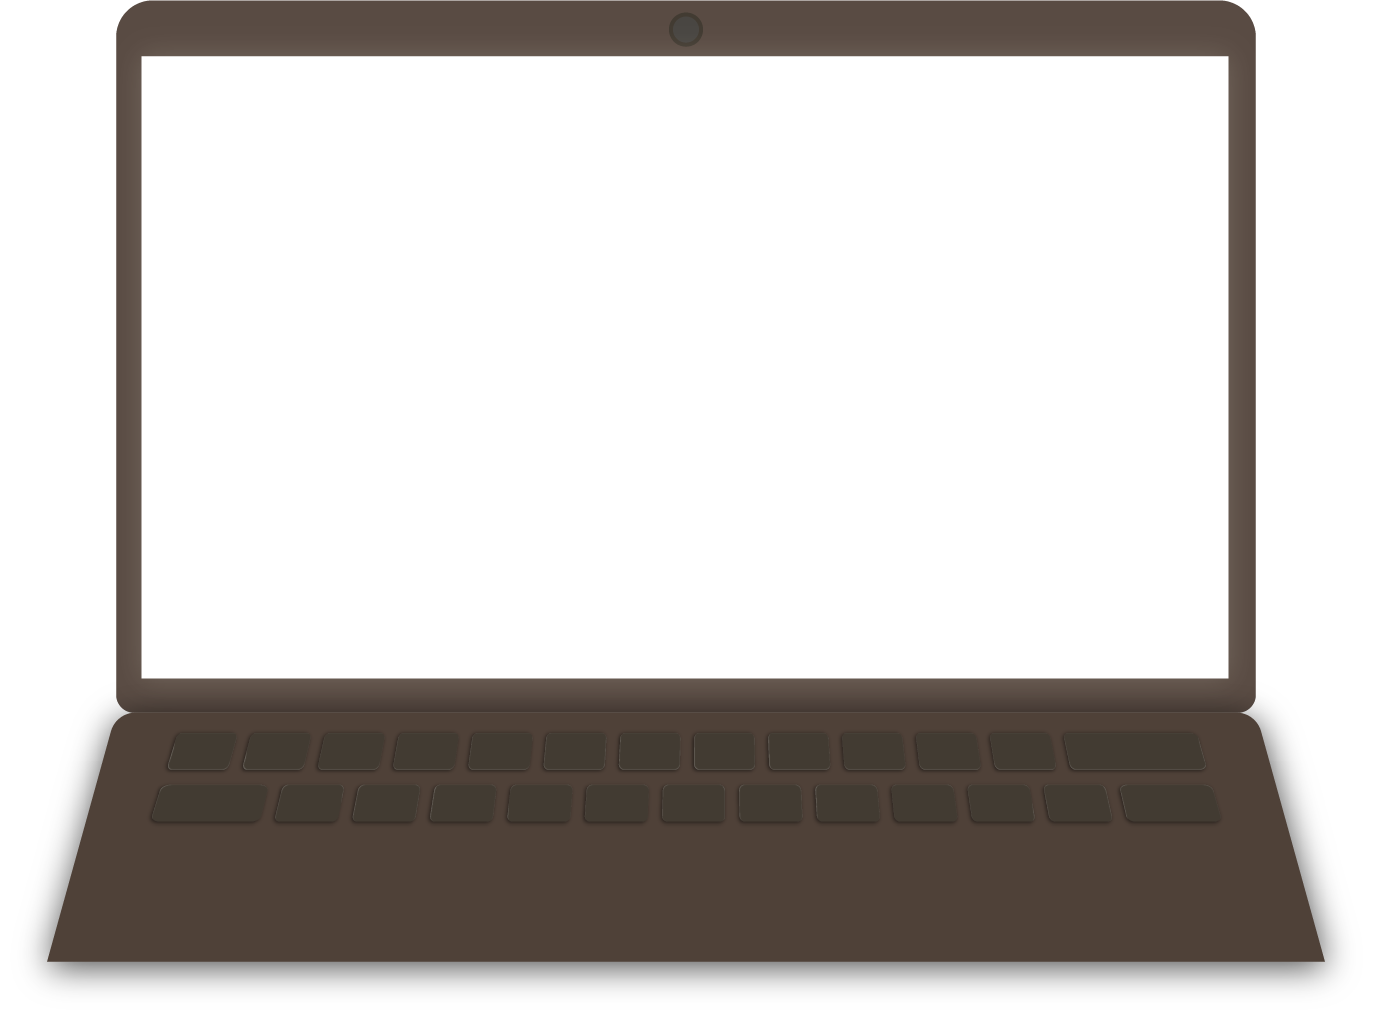
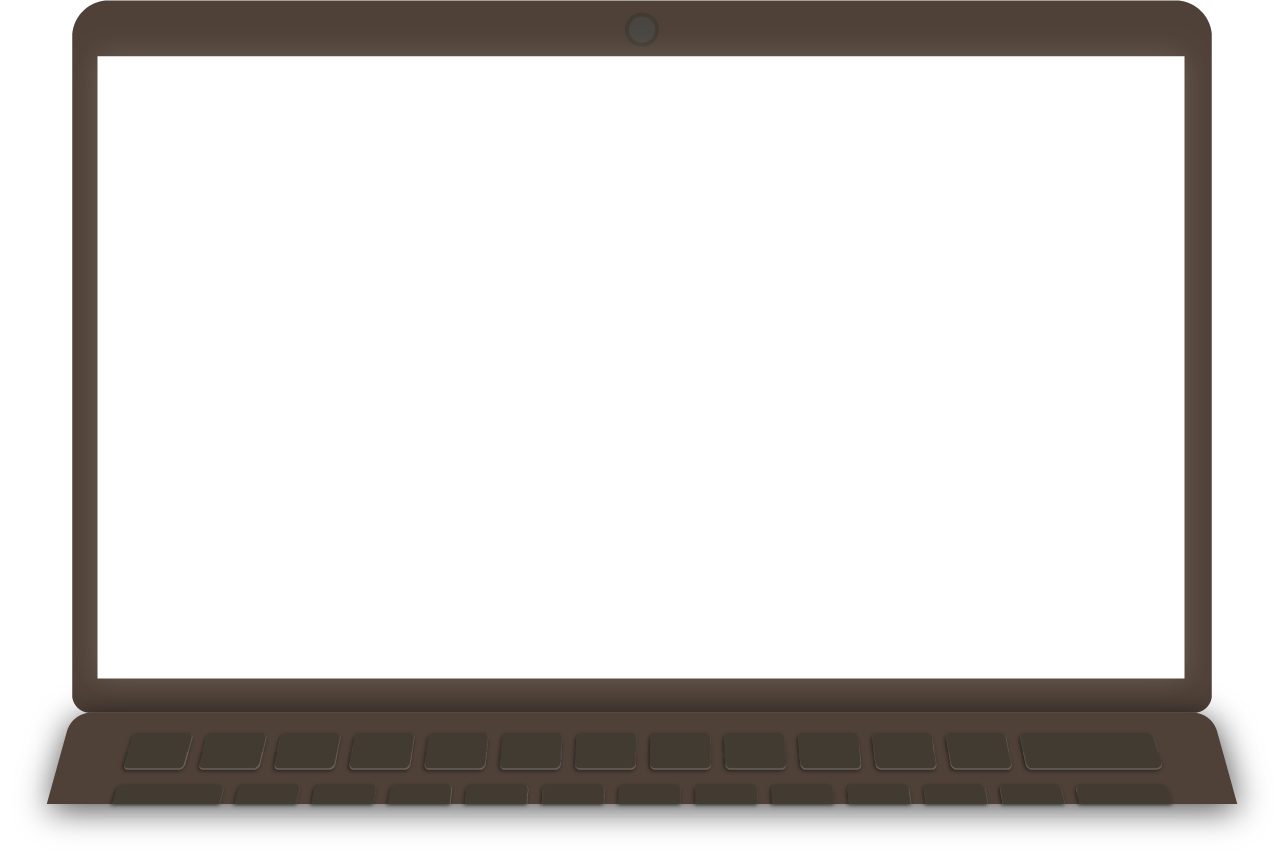
styling af elementer

Changed region(s): [[0.0311, 0.0, 0.9627, 0.8475], [0.0311, 0.9383, 0.9627, 0.9686]]

diff --git a/index.html b/index.html
@@ -27,11 +27,11 @@
                     <!--<img src="img/background2.png" alt="desk in front of a window" id="desk-bg" aria-hidden="true">-->
                     <div class="objects">
                         <div class="lamp">
-                            <img src="img/lamp-switch.png" alt="" id="lamp-switch">
-                            <img src="img/lamp.png" alt="" id="lamp">
+                            <img src="img/lamp-switch.png" alt="lampekontakt" id="lamp-switch">
+                            <img src="img/lamp.png" alt="skrivebordslampe" id="lamp">
                         </div>
                         <div class="pc">
-
+                            <img src="img/pc.png" alt="laptop computer" id="pc">
                         </div>
                     </div>
 

diff --git a/css/style.scss b/css/style.scss
@@ -49,7 +49,7 @@ img{
 
 .content{
     max-width: 100%;
-    background-color: skyblue;
+    background-color: rgb(165, 224, 247);
 }
 
 .desk{
@@ -65,7 +65,30 @@ img{
 .objects{
     position: absolute;
 
-    .lamp{
-        position: absolute;
+    #lamp{
+        position: relative;
+        height: 50vh;
+        top: 85px;
+        left: 900px;
+    }
+
+    #lamp-switch{
+        position: relative;
+        height: 70px;
+        left: 1040px;
+        top: -100px;
+    }
+
+    .pc{
+        max-width: 100%;
+        
+        #pc{
+            position: relative;
+            left: 23%;
+            bottom: 342px;
+            object-fit: cover;
+            object-position: top;
+            width: 64vw;
+        }
     }
 }

diff --git a/css/style.css b/css/style.css
@@ -44,7 +44,7 @@ img {
 
 .content {
   max-width: 100%;
-  background-color: skyblue;
+  background-color: rgb(165, 224, 247);
 }
 
 .desk {
@@ -58,6 +58,28 @@ img {
 .objects {
   position: absolute;
 }
-.objects .lamp {
-  position: absolute;
+.objects #lamp {
+  position: relative;
+  height: 50vh;
+  top: 85px;
+  left: 900px;
+}
+.objects #lamp-switch {
+  position: relative;
+  height: 70px;
+  left: 1040px;
+  top: -100px;
+}
+.objects .pc {
+  max-width: 100%;
+}
+.objects .pc #pc {
+  position: relative;
+  left: 23%;
+  bottom: 342px;
+  -o-object-fit: cover;
+     object-fit: cover;
+  -o-object-position: top;
+     object-position: top;
+  width: 64vw;
 }/*# sourceMappingURL=style.css.map */
